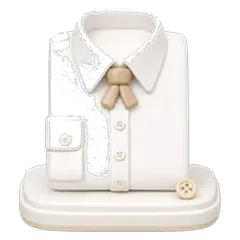
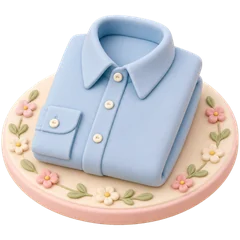
v2.134: ワイシャツ画像を再生成／端末に古い画像が残り続けるService Workerの不具合を修正
- 와이셔츠(ワイシャツ 0119) を再生成。白い部分が背景と一緒に切り抜かれて穴が空いていたため、
  淡いブルーのシャツとして作り直した（白背景では気づかないが、ROOM色の上では抜けが見えていた）
- Service Worker: 画像がキャッシュ優先のみで一度掴んだら二度と更新されず、
  単語画像を作り直しても端末側に古い画像が残り続けていた。
  stale-while-revalidate（キャッシュを即返しつつ裏で取り直す）に変更し、次回表示から新しい画像になるようにした。
  あわせて CACHE を ktango-v2 → ktango-v3 に上げ、既存端末の古いキャッシュを activate 時に破棄させる
- tools/apply_regen.py: 追加の取り込み元に _regen3 を追加

diff --git a/sw.js b/sw.js
@@ -1,8 +1,11 @@
 /* k-tango Service Worker
- * 画像（webp/png/svg）＝キャッシュ優先（オフライン学習・帯スクロールの読み込み遅延解消）
+ * 画像（webp/png/svg）＝キャッシュ優先＋裏で更新(stale-while-revalidate)
+ *   …従来はキャッシュ優先のみで、一度掴んだ画像が永久に更新されず、
+ *     単語画像を作り直しても端末側に古い画像が残り続けていた
  * HTML/JSなど＝ネットワーク優先・失敗時キャッシュ（更新の即時反映を最優先）
+ * ※ 画像を差し替えたら CACHE の版を上げること（古いキャッシュがactivateで破棄される）
  */
-const CACHE = "ktango-v2";
+const CACHE = "ktango-v3";
 
 self.addEventListener("install", () => self.skipWaiting());
 self.addEventListener("activate", e => {
@@ -37,11 +40,16 @@ self.addEventListener("fetch", e => {
 
   const isImage = /\.(webp|png|svg|jpg|ico)$/.test(url.pathname);
   if (isImage) {
+    // キャッシュがあれば即返し（表示は速いまま）、裏で取り直して次回から新しい画像になるようにする
     e.respondWith(
-      caches.match(req).then(hit => hit || fetch(req).then(res => {
-        if (res.ok) { const cp = res.clone(); caches.open(CACHE).then(c => c.put(req, cp)); }
-        return res;
-      }))
+      caches.match(req).then(hit => {
+        const net = fetch(req).then(res => {
+          if (res.ok) { const cp = res.clone(); caches.open(CACHE).then(c => c.put(req, cp)); }
+          return res;
+        }).catch(() => hit);
+        if (hit) e.waitUntil(net); // 裏の更新が終わるまでSWを生かす
+        return hit || net;
+      })
     );
   } else {
     e.respondWith(

diff --git a/index.html b/index.html
@@ -5779,7 +5779,7 @@ function renderRoomCurve(){_curveIdx=curSection;renderCurveCarousel();}
 /* ============================================================ utils ============================================================ */
 function esc(s){return String(s).replace(/&/g,"&amp;").replace(/</g,"&lt;").replace(/>/g,"&gt;").replace(/"/g,"&quot;");}
 /* バージョン表示（トップページ） */
-const APP_VERSION="v2.133 (2026-07-25)";
+const APP_VERSION="v2.134 (2026-07-25)";
 (function(){const el=document.getElementById("appver");if(el)el.textContent=APP_VERSION;})();
 getUserId();
 document.body.classList.toggle("bigtext",!!loadSettings().bigText); // 文字サイズ設定を反映

diff --git a/tools/apply_regen.py b/tools/apply_regen.py
@@ -14,7 +14,7 @@ BAK = os.path.join(ROOT, "_regen", "_replaced")
 SIZE = 240
 DRY = "--dry" in sys.argv
 # 追加の取り込み元（後から作り直したぶんが優先される）
-EXTRA = [d for d in (os.path.join(ROOT, "_regen2"),) if os.path.isdir(d)]
+EXTRA = [d for d in (os.path.join(ROOT, "_regen2"), os.path.join(ROOT, "_regen3")) if os.path.isdir(d)]
 
 
 def check(im):
